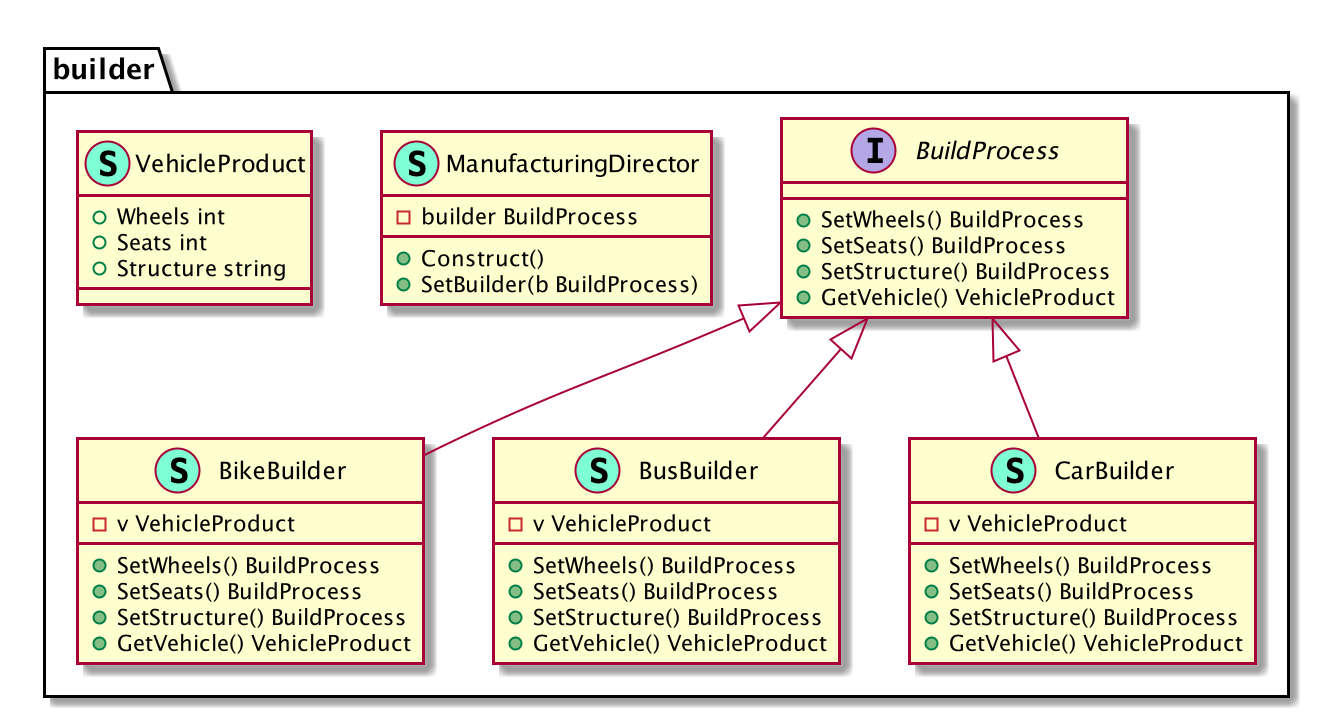
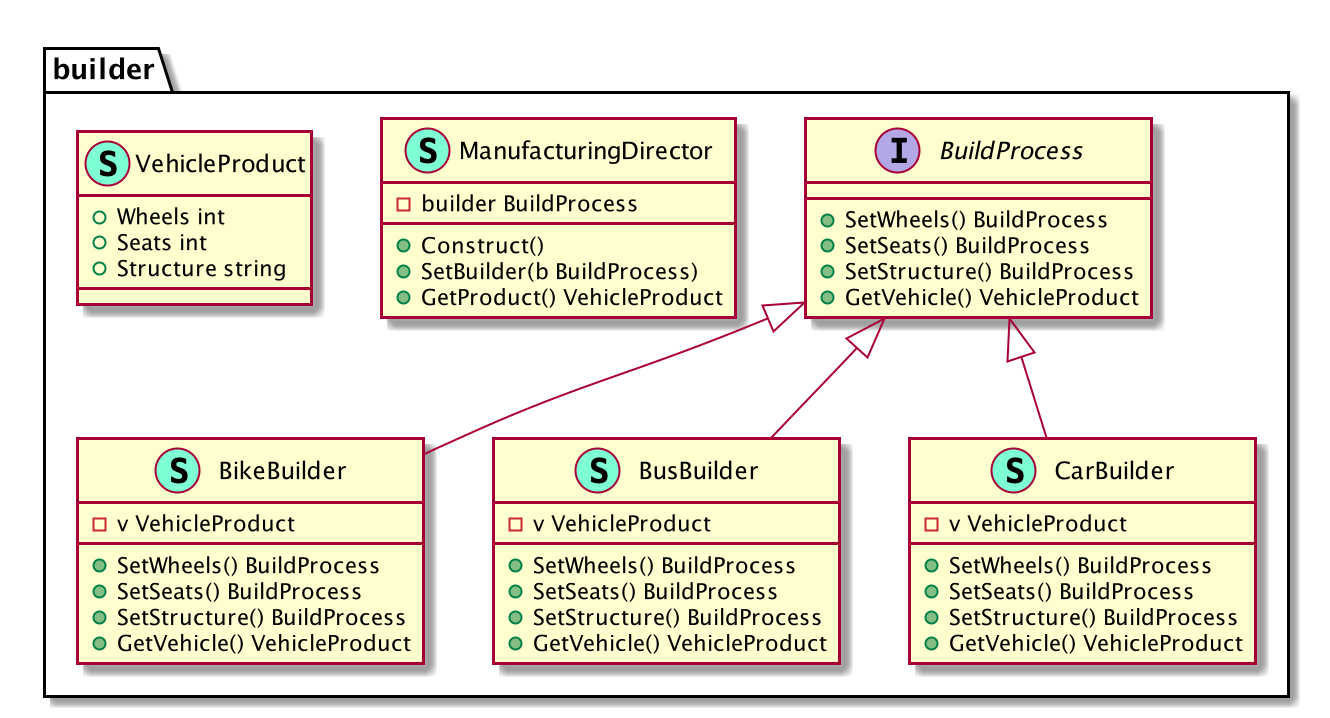
add sequence to builder

diff --git a/creational/builder/builder.go b/creational/builder/builder.go
@@ -20,6 +20,10 @@ func (f *ManufacturingDirector) SetBuilder(b BuildProcess) {
 	f.builder = b
 }
 
+func (f *ManufacturingDirector) GetProduct() VehicleProduct {
+	return f.builder.GetVehicle()
+}
+
 //Product
 type VehicleProduct struct {
 	Wheels    int
